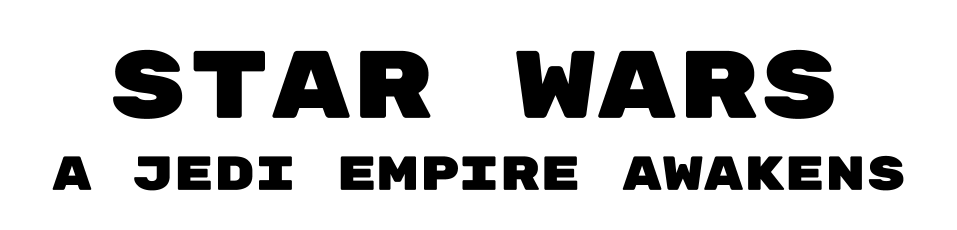
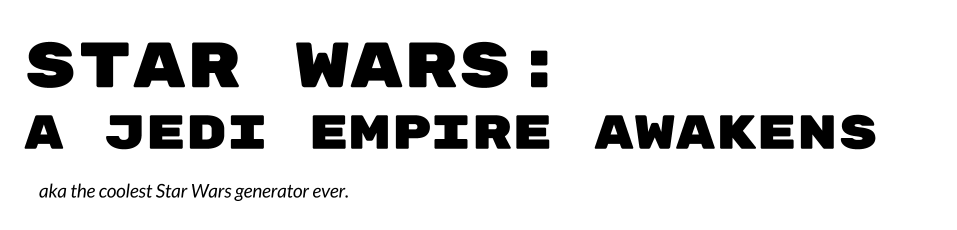
finished frontend

diff --git a/app/assets/stylesheets/application.scss b/app/assets/stylesheets/application.scss
@@ -16,6 +16,24 @@
 @import "bootstrap-sprockets";
 @import "bootstrap";
 
+#logo{
+	height: 190px;
+}
 .center-it{
 	text-align: center;
+}
+.well {
+	height: 180px;
+}
+#footer{
+	text-align: center;
+	font-style: italic;
+	font-size: 10px;
+	bottom:5;
+}
+#api{
+	position: absolute;
+  right: 0;
+  top: 0;
+  padding: 1rem;
 }
